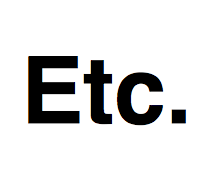
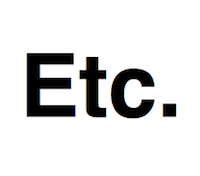
Blog and project updates

diff --git a/_sass/_projects.scss b/_sass/_projects.scss
@@ -12,7 +12,7 @@
         width: 200px;
 
         img {
-            height: auto;
+            height: 200px;
             position: relative;
                 left: -25%;
                 top: -5%;
